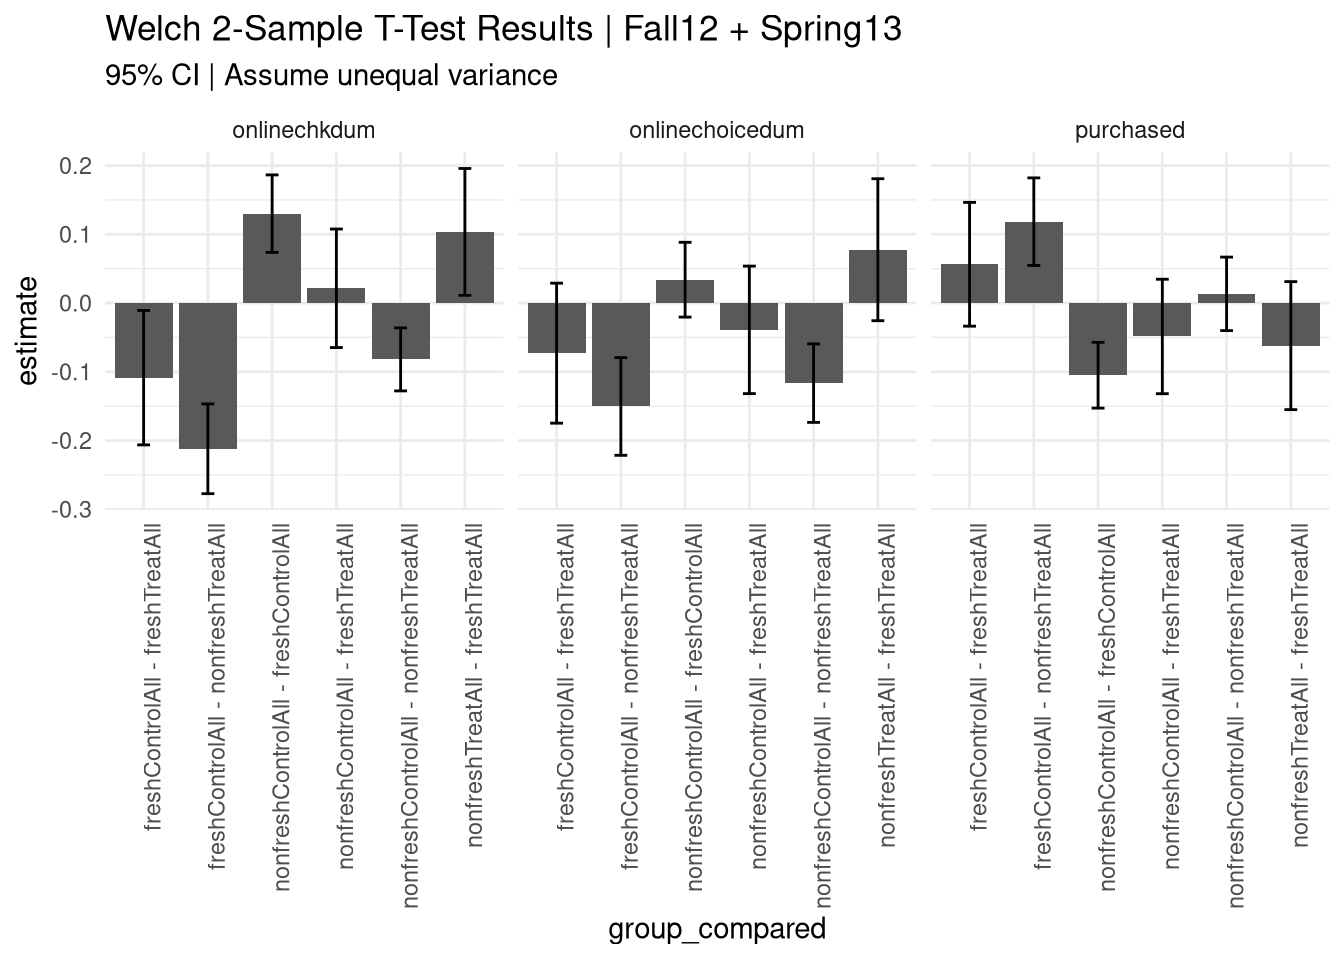
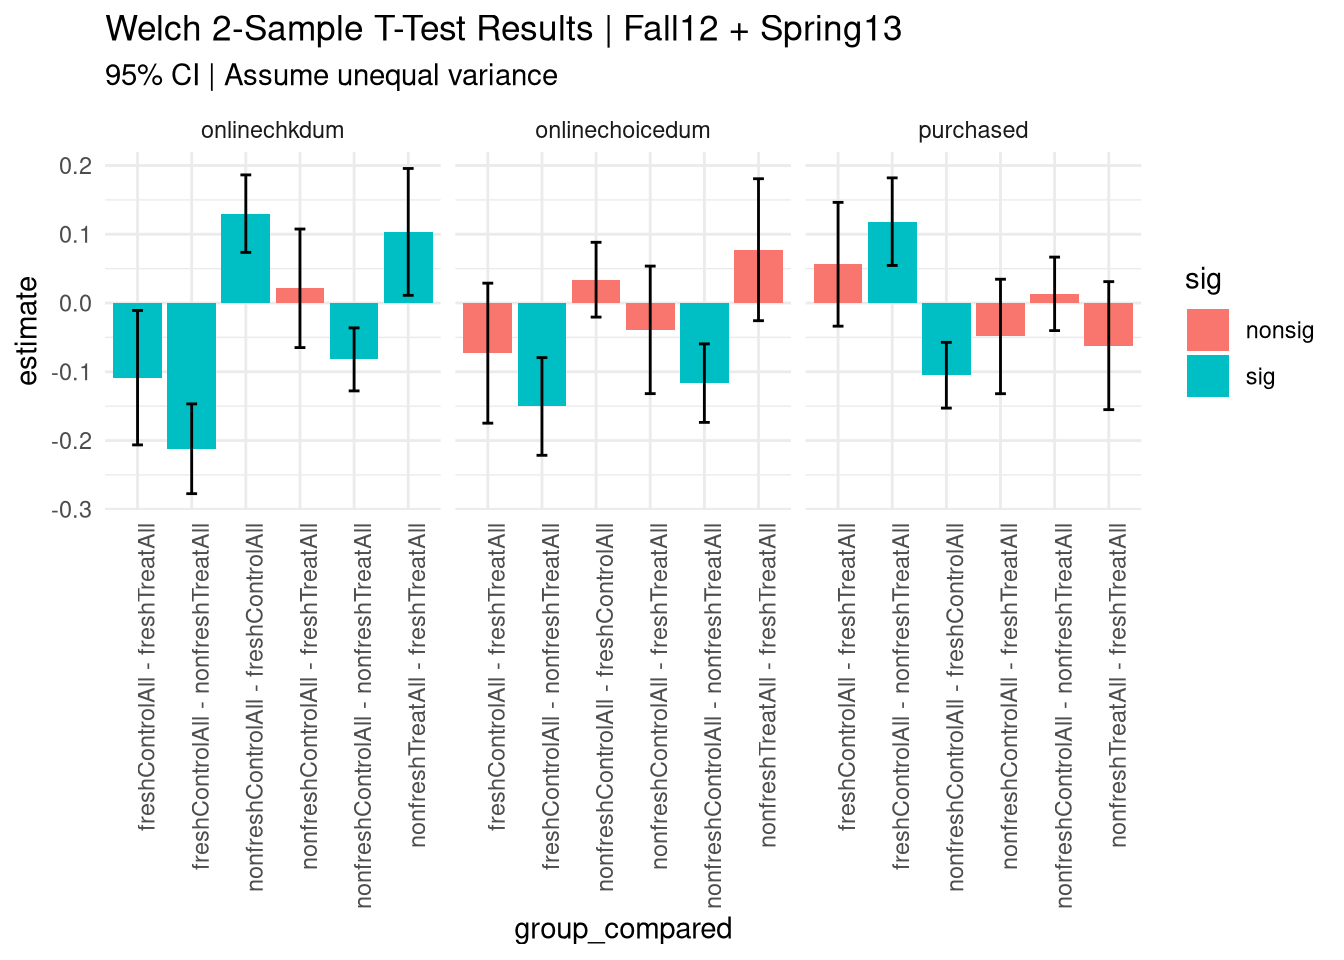
Build site.

diff --git a/docs/ttest4252020.html b/docs/ttest4252020.html
@@ -504,16 +504,16 @@ This reproducible <a href="http://rmarkdown.rstudio.com">R Markdown</a> analysis
 <div class="panel panel-default">
 <div class="panel-heading">
 <p class="panel-title">
-<a data-toggle="collapse" data-parent="#workflowr-checks" href="#strongRepositoryversionstrongahrefhttpsgithubcomshugamoecleanittree4b64655b37b82ad608578434b0f888b354f01429targetblank4b64655a"> <span class="glyphicon glyphicon-ok text-success" aria-hidden="true"></span> <strong>Repository version:</strong> <a href="https://github.com/shugamoe/cleanit/tree/4b64655b37b82ad608578434b0f888b354f01429" target="_blank">4b64655</a> </a>
+<a data-toggle="collapse" data-parent="#workflowr-checks" href="#strongRepositoryversionstrongahrefhttpsgithubcomshugamoecleanittree962948aff36a73ec9bfba93c03567b496d5f1b93targetblank962948aa"> <span class="glyphicon glyphicon-ok text-success" aria-hidden="true"></span> <strong>Repository version:</strong> <a href="https://github.com/shugamoe/cleanit/tree/962948aff36a73ec9bfba93c03567b496d5f1b93" target="_blank">962948a</a> </a>
 </p>
 </div>
[2 lines of base64/hex data omitted]
 <div class="panel-body">
 <p>
 Great! You are using Git for version control. Tracking code development and connecting the code version to the results is critical for reproducibility.
 </p>
 <p>
-The results in this page were generated with repository version <a href="https://github.com/shugamoe/cleanit/tree/4b64655b37b82ad608578434b0f888b354f01429" target="_blank">4b64655</a>. See the <em>Past versions</em> tab to see a history of the changes made to the R Markdown and HTML files.
+The results in this page were generated with repository version <a href="https://github.com/shugamoe/cleanit/tree/962948aff36a73ec9bfba93c03567b496d5f1b93" target="_blank">962948a</a>. See the <em>Past versions</em> tab to see a history of the changes made to the R Markdown and HTML files.
 </p>
 <p>
 Note that you need to be careful to ensure that all relevant files for the analysis have been committed to Git prior to generating the results (you can use <code>wflow_publish</code> or <code>wflow_git_commit</code>). workflowr only checks the R Markdown file, but you know if there are other scripts or data files that it depends on. Below is the status of the Git repository when the results were generated:
@@ -569,6 +569,40 @@ Message
 </tr>
 </thead>
 <tbody>
+<tr>
+<td>
+Rmd
+</td>
+<td>
+<a href="https://github.com/shugamoe/cleanit/blob/962948aff36a73ec9bfba93c03567b496d5f1b93/analysis/ttest4252020.Rmd" target="_blank">962948a</a>
+</td>
+<td>
+Julian McClellan
+</td>
+<td>
+2020-04-27
+</td>
+<td>
+Mark sigs in both fall12 and fall12 + spring13
+</td>
+</tr>
+<tr>
+<td>
+html
+</td>
+<td>
+<a href="https://rawcdn.githack.com/shugamoe/cleanit/265823dcbc9722343a0169f43925f38f639fe878/docs/ttest4252020.html" target="_blank">265823d</a>
+</td>
+<td>
+Julian McClellan
+</td>
+<td>
+2020-04-27
+</td>
+<td>
+Build site.
+</td>
+</tr>
 <tr>
 <td>
 html
